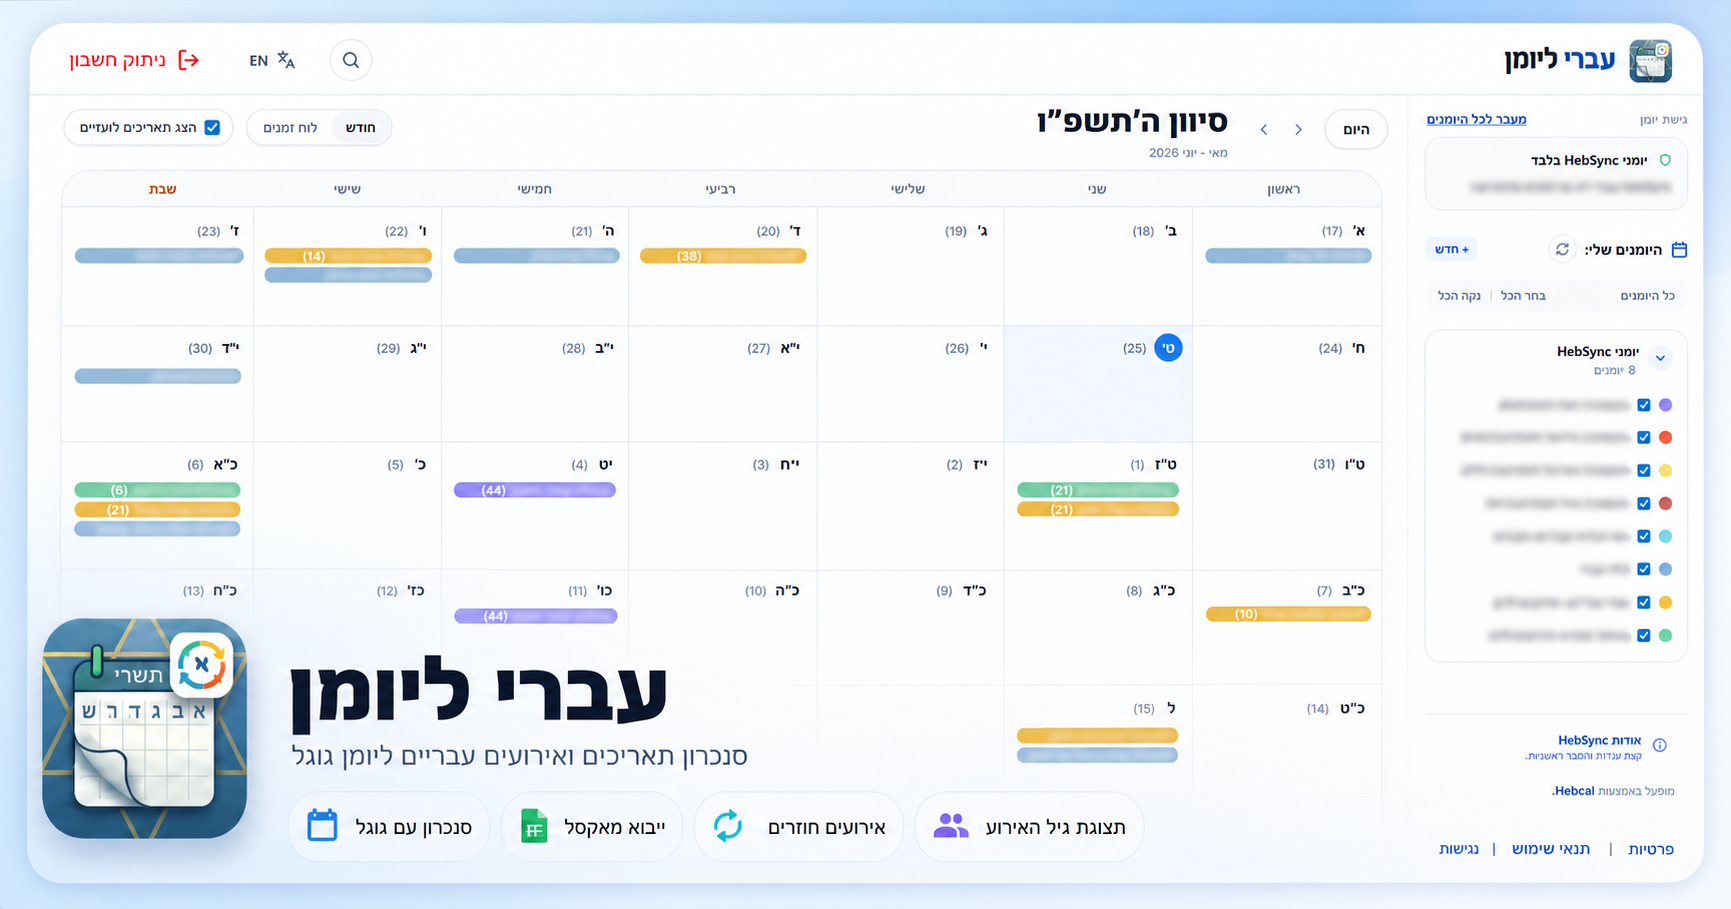
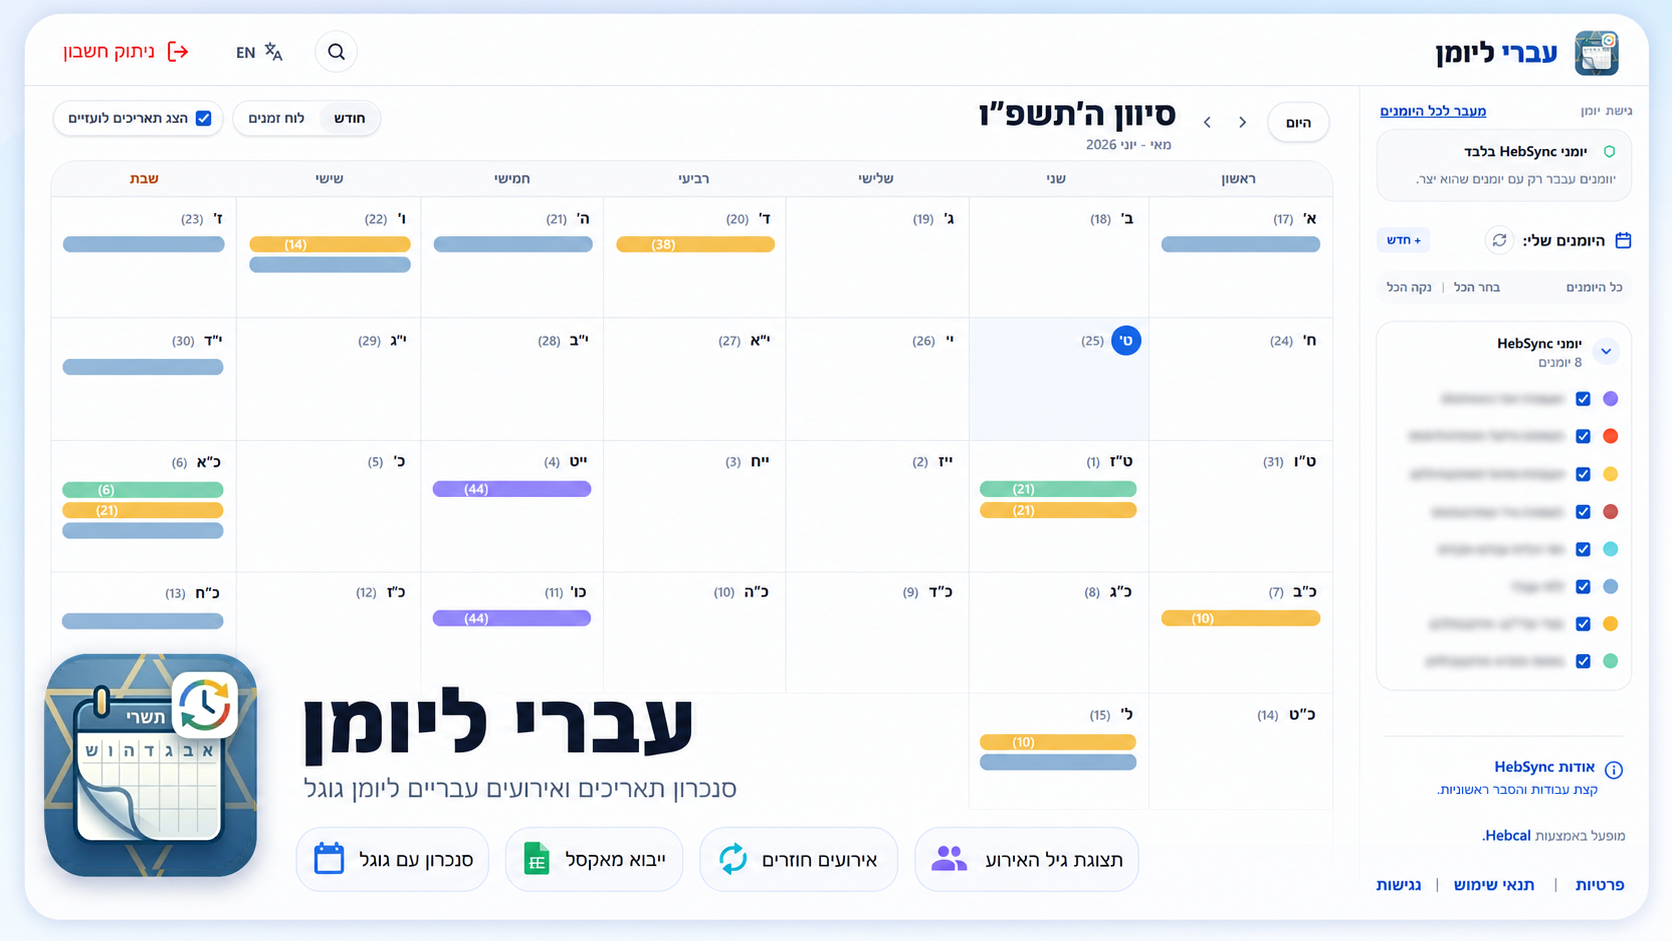
Fix schedule view today label

diff --git a/src/test/ScheduleCalendarView.test.tsx b/src/test/ScheduleCalendarView.test.tsx
@@ -1,0 +1,64 @@
+import { render, screen, within } from '@testing-library/react';
+import { describe, expect, it, vi } from 'vitest';
+import { ScheduleCalendarView } from '../components/MyCalendarViews';
+
+describe('ScheduleCalendarView', () => {
+  it('keeps the Hebrew day label for today instead of switching to Gregorian', () => {
+    render(
+      <ScheduleCalendarView
+        t={(key, options) => {
+          if (key === 'createEventOnDay') {
+            return `Create event on ${String(options?.hebrewDay ?? '')} (${String(options?.gregorianDay ?? '')})`;
+          }
+
+          if (key.startsWith('days.')) {
+            return 'יום';
+          }
+
+          return key;
+        }}
+        isRtl
+        showGregorian={false}
+        scheduleDays={[
+          {
+            hDay: 18,
+            hDayGematriya: 'י״ח',
+            hMonthName: 'Sivan',
+            gDay: 25,
+            gMonthLabel: 'מאי',
+            gDate: new Date('2026-05-25T12:00:00'),
+            events: [
+              {
+                id: 'evt-1',
+                summary: 'אירוע בדיקה',
+                start: {
+                  date: '2026-05-25',
+                },
+                end: {
+                  date: '2026-05-26',
+                },
+              },
+            ],
+            hYear: 5786,
+            isToday: true,
+            isShabbat: false,
+            weekday: 1,
+          },
+        ]}
+        hMonthNameHebrew="סיוון"
+        getEventColor={() => '#1a73e8'}
+        handleEventClick={vi.fn()}
+        isCalendarLoading={false}
+        handleCreateFromDay={vi.fn()}
+        emptyStateMessage=""
+      />,
+    );
+
+    const dayButton = screen.getByRole('button', {
+      name: 'Create event on י״ח (25)',
+    });
+
+    expect(within(dayButton).getByText('י״ח')).toBeInTheDocument();
+    expect(within(dayButton).queryByText('25')).not.toBeInTheDocument();
+  });
+});

diff --git a/src/components/MyCalendarViews.tsx b/src/components/MyCalendarViews.tsx
@@ -857,7 +857,7 @@ export function ScheduleCalendarView({
                   })}
                 >
                   <div className={`inline-flex h-7 w-7 items-center justify-center rounded-full text-sm font-black md:h-9 md:w-9 md:text-[15px] ${dayObj.isToday ? 'bg-[#1a73e8] text-white' : 'bg-slate-100 text-slate-700 dark:bg-slate-800 dark:text-slate-100'}`}>
-                    {dayObj.isToday ? dayObj.gDay : dayObj.hDayGematriya}
+                    {dayObj.hDayGematriya}
                   </div>
                   <div className="mt-1 text-[10px] font-bold text-slate-800 dark:text-slate-100 md:text-[11px]">
                     {t(`days.${dayObj.weekday}`)}